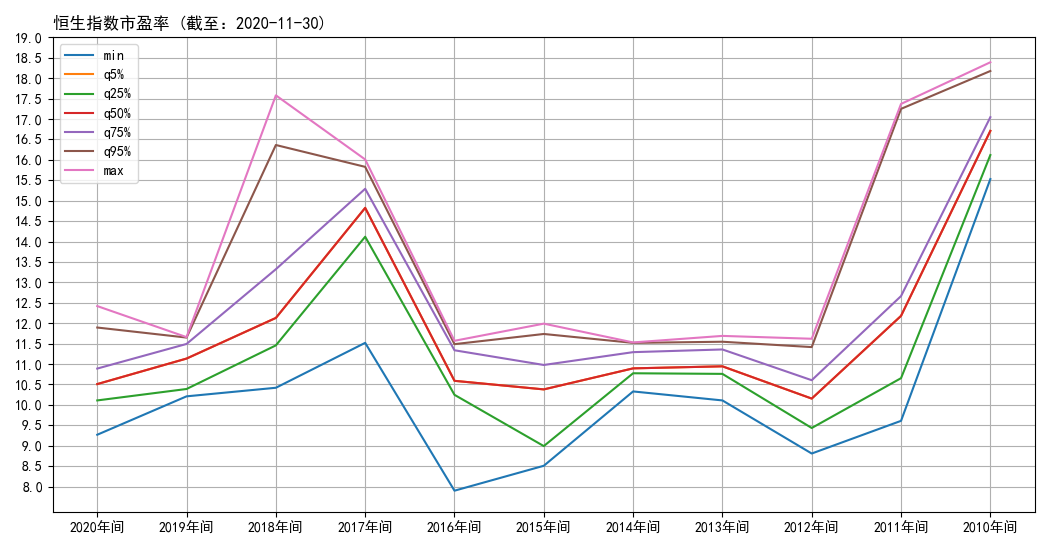
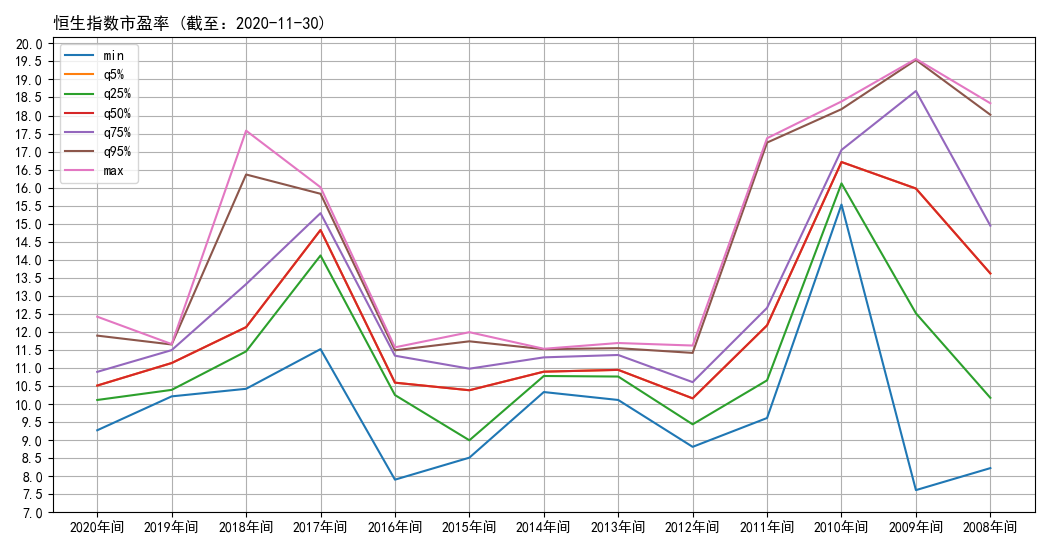
Updated hsi-pe

Changed region(s): [[0.0, 0.0618, 0.9752, 0.9891]]

diff --git a/data/hsi/hsi-pe.html b/data/hsi/hsi-pe.html
@@ -20,7 +20,7 @@ body {font-family: -apple-system,BlinkMacSystemFont,"Segoe UI",Roboto,"Helvetica
 <script>
 $(document).ready(function() {
 
-  var colHide = [7, 8, 9, 10, 11, 12];
+  var colHide = [7, 8, 9, 10, 11, 12, 13, 14];
   for (var noCol of colHide) {
       var th = $(".dataframe tr th:nth-child("+noCol+")");
       th.addClass("d-none").addClass("d-md-table-cell");
@@ -57,6 +57,8 @@ $(document).ready(function() {
       <th>2012年起</th>
       <th>2011年起</th>
       <th>2010年起</th>
+      <th>2009年起</th>
+      <th>2008年起</th>
     </tr>
   </thead>
   <tbody>
@@ -73,6 +75,8 @@ $(document).ready(function() {
       <td>107</td>
       <td>119</td>
       <td>131</td>
+      <td>143</td>
+      <td>155</td>
     </tr>
     <tr>
       <th>min</th>
@@ -87,6 +91,8 @@ $(document).ready(function() {
       <td>7.9</td>
       <td>7.9</td>
       <td>7.9</td>
+      <td>7.61</td>
+      <td>7.61</td>
     </tr>
     <tr>
       <th>q5%</th>
@@ -101,6 +107,8 @@ $(document).ready(function() {
       <td>10.88</td>
       <td>10.98</td>
       <td>11.25</td>
+      <td>11.3</td>
+      <td>11.33</td>
     </tr>
     <tr>
       <th>q25%</th>
@@ -115,6 +123,8 @@ $(document).ready(function() {
       <td>10.335</td>
       <td>10.335</td>
       <td>10.39</td>
+      <td>10.405</td>
+      <td>10.405</td>
     </tr>
     <tr>
       <th>q50%</th>
@@ -129,6 +139,8 @@ $(document).ready(function() {
       <td>10.88</td>
       <td>10.98</td>
       <td>11.25</td>
+      <td>11.3</td>
+      <td>11.33</td>
     </tr>
     <tr>
       <th>q75%</th>
@@ -143,6 +155,8 @@ $(document).ready(function() {
       <td>11.565</td>
       <td>11.65</td>
       <td>12.5</td>
+      <td>13.26</td>
+      <td>13.81</td>
     </tr>
     <tr>
       <th>q95%</th>
@@ -157,6 +171,8 @@ $(document).ready(function() {
       <td>15.192</td>
       <td>15.361</td>
       <td>16.99</td>
+      <td>17.348</td>
+      <td>17.634</td>
     </tr>
     <tr>
       <th>max</th>
@@ -171,6 +187,8 @@ $(document).ready(function() {
       <td>17.58</td>
       <td>17.58</td>
       <td>18.39</td>
+      <td>19.57</td>
+      <td>19.57</td>
     </tr>
     <tr>
       <th>mean</th>
@@ -185,6 +203,8 @@ $(document).ready(function() {
       <td>11.269</td>
       <td>11.381</td>
       <td>11.872</td>
+      <td>12.14</td>
+      <td>12.207</td>
     </tr>
     <tr>
       <th>sd</th>
@@ -199,6 +219,8 @@ $(document).ready(function() {
       <td>1.722</td>
       <td>1.837</td>
       <td>2.348</td>
+      <td>2.696</td>
+      <td>2.76</td>
     </tr>
     <tr>
       <th>variance</th>
@@ -213,6 +235,8 @@ $(document).ready(function() {
       <td>2.995</td>
       <td>3.402</td>
       <td>5.556</td>
+      <td>7.317</td>
+      <td>7.665</td>
     </tr>
     <tr>
       <th>skewness</th>
@@ -227,6 +251,8 @@ $(document).ready(function() {
       <td>1.24</td>
       <td>1.321</td>
       <td>1.103</td>
+      <td>1.013</td>
+      <td>0.895</td>
     </tr>
     <tr>
       <th>kurtosis</th>
@@ -241,6 +267,8 @@ $(document).ready(function() {
       <td>1.907</td>
       <td>1.994</td>
       <td>0.358</td>
+      <td>0.192</td>
+      <td>-0.042</td>
     </tr>
   </tbody>
 </table>
@@ -267,12 +295,16 @@ $(document).ready(function() {
       <th>2012年间</th>
       <th>2011年间</th>
       <th>2010年间</th>
+      <th>2009年间</th>
+      <th>2008年间</th>
     </tr>
   </thead>
   <tbody>
     <tr>
       <th>nobs</th>
       <td>11</td>
+      <td>12</td>
+      <td>12</td>
       <td>12</td>
       <td>12</td>
       <td>12</td>
@@ -297,6 +329,8 @@ $(document).ready(function() {
       <td>8.81</td>
       <td>9.61</td>
       <td>15.53</td>
+      <td>7.61</td>
+      <td>8.22</td>
     </tr>
     <tr>
       <th>q5%</th>
@@ -311,6 +345,8 @@ $(document).ready(function() {
       <td>10.155</td>
       <td>12.18</td>
       <td>16.71</td>
+      <td>15.975</td>
+      <td>13.62</td>
     </tr>
     <tr>
       <th>q25%</th>
@@ -325,6 +361,8 @@ $(document).ready(function() {
       <td>9.435</td>
       <td>10.655</td>
       <td>16.118</td>
+      <td>12.515</td>
+      <td>10.17</td>
     </tr>
     <tr>
       <th>q50%</th>
@@ -339,6 +377,8 @@ $(document).ready(function() {
       <td>10.155</td>
       <td>12.18</td>
       <td>16.71</td>
+      <td>15.975</td>
+      <td>13.62</td>
     </tr>
     <tr>
       <th>q75%</th>
@@ -353,6 +393,8 @@ $(document).ready(function() {
       <td>10.605</td>
       <td>12.665</td>
       <td>17.045</td>
+      <td>18.68</td>
+      <td>14.945</td>
     </tr>
     <tr>
       <th>q95%</th>
@@ -367,6 +409,8 @@ $(document).ready(function() {
       <td>11.416</td>
       <td>17.249</td>
       <td>18.176</td>
+      <td>19.542</td>
+      <td>18.021</td>
     </tr>
     <tr>
       <th>max</th>
@@ -381,6 +425,8 @@ $(document).ready(function() {
       <td>11.62</td>
       <td>17.37</td>
       <td>18.39</td>
+      <td>19.57</td>
+      <td>18.34</td>
     </tr>
     <tr>
       <th>mean</th>
@@ -395,6 +441,8 @@ $(document).ready(function() {
       <td>10.161</td>
       <td>12.38</td>
       <td>16.74</td>
+      <td>15.061</td>
+      <td>13.011</td>
     </tr>
     <tr>
       <th>sd</th>
@@ -409,6 +457,8 @@ $(document).ready(function() {
       <td>0.811</td>
       <td>2.426</td>
       <td>0.811</td>
+      <td>4.133</td>
+      <td>3.329</td>
     </tr>
     <tr>
       <th>variance</th>
@@ -423,6 +473,8 @@ $(document).ready(function() {
       <td>0.718</td>
       <td>6.423</td>
       <td>0.717</td>
+      <td>18.632</td>
+      <td>12.088</td>
     </tr>
     <tr>
       <th>skewness</th>
@@ -437,6 +489,8 @@ $(document).ready(function() {
       <td>0.127</td>
       <td>1.042</td>
       <td>0.507</td>
+      <td>-0.644</td>
+      <td>-0.086</td>
     </tr>
     <tr>
       <th>kurtosis</th>
@@ -451,6 +505,8 @@ $(document).ready(function() {
       <td>-0.921</td>
       <td>0.058</td>
       <td>-0.417</td>
+      <td>-0.878</td>
+      <td>-1.079</td>
     </tr>
   </tbody>
 </table>

diff --git a/hsi/create_html.py b/hsi/create_html.py
@@ -28,7 +28,7 @@ df3_1 = pd.DataFrame(columns=columns)
 df3_4 = pd.DataFrame(columns=columns)
 date3_1 = df2.iloc[-1]['date'].year
 date3_2 = df2.iloc[0]['date'].year
-for i in range(0, 11):
+for i in range(0, 13):
     def compute(df3_3, name3, title3):
         df3_3 = df3_3[name3]
         stats3 = stats.describe(df3_3.values)
@@ -85,7 +85,7 @@ last4 = df2.iloc[-1][names[1]]
 date4 = df2.iloc[-1]['date'].date()
 
 # 4.2.0
-plt.rcParams['font.sans-serif']=['SimHei']
+plt.rcParams['font.sans-serif'] = ['SimHei']
 plt.rcParams['axes.unicode_minus'] = False
 plt.figure()
 # 4.2.1
@@ -96,8 +96,9 @@ fig = plot.get_figure()
 path4_1 = os.path.join(static_folder, 'hsi-pe-1.png')
 if os.path.exists(path4_1):
     os.remove(path4_1)
-plt.yticks(ticks=np.linspace(8, 19, ((19-8)*2)+1))
-plt.xticks(ticks=np.arange(data4_3.shape[0]), labels=data4_3.index.values.tolist())
+plt.yticks(ticks=np.linspace(7, 20, ((20-7)*2)+1))
+x_labels = data4_3.index.values.tolist()
+plt.xticks(ticks=np.arange(data4_3.shape[0]), labels=x_labels)
 plt.xlabel('')
 plt.ylabel('')
 plt.title('恒生指数市盈率 (截至：'+str(date4)+')', loc='left')
@@ -133,7 +134,7 @@ body {font-family: -apple-system,BlinkMacSystemFont,"Segoe UI",Roboto,"Helvetica
 <script>
 $(document).ready(function() {
 
-  var colHide = [7, 8, 9, 10, 11, 12];
+  var colHide = [7, 8, 9, 10, 11, 12, 13, 14];
   for (var noCol of colHide) {
       var th = $(".dataframe tr th:nth-child("+noCol+")");
       th.addClass("d-none").addClass("d-md-table-cell");
